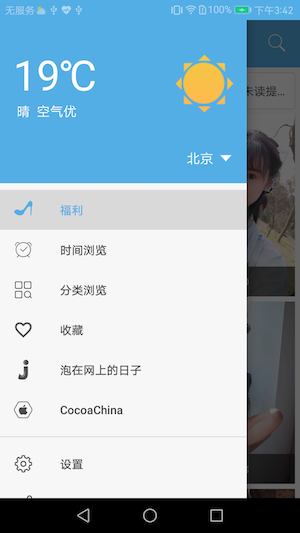
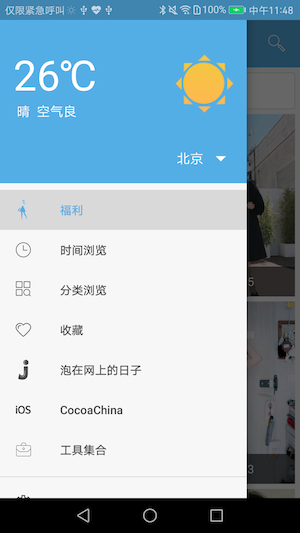
添加新的截图

diff --git a/app/src/main/java/com/maning/gankmm/ui/adapter/RecycleMoreAdapter.java b/app/src/main/java/com/maning/gankmm/ui/adapter/RecycleMoreAdapter.java
@@ -84,11 +84,11 @@ public class RecycleMoreAdapter extends RecyclerView.Adapter<RecyclerView.ViewHo
                 mDatasItem.add("微信精选");
             } else if (position == 1) {
                 mDatasItem.add("银行卡信息");
-                mDatasItem.add("黄金数据");
                 mDatasItem.add("货币汇率");
-                mDatasItem.add("白银数据");
-                mDatasItem.add("国内现货交易所贵金属");
-                mDatasItem.add("全球股指查询");
+//                mDatasItem.add("黄金数据");
+//                mDatasItem.add("白银数据");
+//                mDatasItem.add("国内现货交易所贵金属");
+//                mDatasItem.add("全球股指查询");
             } else if (position == 2) {
                 mDatasItem.add("周公解梦");
                 mDatasItem.add("婚姻匹配");
@@ -133,7 +133,7 @@ public class RecycleMoreAdapter extends RecyclerView.Adapter<RecyclerView.ViewHo
 
                     if (title.equals("银行卡信息")) {
                         context.startActivity(new Intent(context, BankCardActivity.class));
-                    } else if (title.equals("黄金数据")) {
+                    } else if (title.equals("货币汇率")) {
                         MySnackbar.makeSnackBarGreen(myViewHolder.recyclerViewItem,"功能暂未开通,敬请期待");
                     } else if (title.equals("货币汇率")) {
                         MySnackbar.makeSnackBarGreen(myViewHolder.recyclerViewItem,"功能暂未开通,敬请期待");

diff --git a/app/src/main/java/com/maning/gankmm/ui/adapter/RecycleMoreItemAdapter.java b/app/src/main/java/com/maning/gankmm/ui/adapter/RecycleMoreItemAdapter.java
@@ -74,12 +74,12 @@ public class RecycleMoreItemAdapter extends RecyclerView.Adapter<RecyclerView.Vi
 
             if (title.equals("银行卡信息")) {
                 myViewHolder.iv_more_item.setImageResource(R.drawable.gank_icon_tools_bank);
+            } else if (title.equals("白银数据")) {
+                myViewHolder.iv_more_item.setImageResource(R.drawable.gank_icon_tools_baiyin);
             } else if (title.equals("黄金数据")) {
                 myViewHolder.iv_more_item.setImageResource(R.drawable.gank_icon_tools_gold);
             } else if (title.equals("货币汇率")) {
                 myViewHolder.iv_more_item.setImageResource(R.drawable.gank_icon_tools_money);
-            } else if (title.equals("白银数据")) {
-                myViewHolder.iv_more_item.setImageResource(R.drawable.gank_icon_tools_baiyin);
             } else if (title.equals("国内现货交易所贵金属")) {
                 myViewHolder.iv_more_item.setImageResource(R.drawable.gank_icon_tools_guijinshu);
             } else if (title.equals("全球股指查询")) {

diff --git a/app/src/main/java/com/maning/gankmm/ui/activity/MoreActivity.java b/app/src/main/java/com/maning/gankmm/ui/activity/MoreActivity.java
@@ -48,9 +48,9 @@ public class MoreActivity extends BaseActivity {
     private void initMyToolBar() {
         int currentSkinType = SkinManager.getCurrentSkinType(this);
         if (SkinManager.THEME_DAY == currentSkinType) {
-            initToolBar(toolbar, "更多功能", R.drawable.gank_ic_back_white);
+            initToolBar(toolbar, "工具合集", R.drawable.gank_ic_back_white);
         } else {
-            initToolBar(toolbar, "更多功能", R.drawable.gank_ic_back_night);
+            initToolBar(toolbar, "工具合集", R.drawable.gank_ic_back_night);
         }
     }
 

diff --git a/README.md b/README.md
@@ -55,10 +55,16 @@
 ![](https://github.com/maning0303/GankMM/raw/master/screenshots/gank_006.png)
 ![](https://github.com/maning0303/GankMM/raw/master/screenshots/gank_007.png)
 ![](https://github.com/maning0303/GankMM/raw/master/screenshots/gank_008.png)
+![](https://github.com/maning0303/GankMM/raw/master/screenshots/gank_009.png)
 
 
 
 ## 更新日志：
+### V1.6.2(还没有发布):
+    1.使用vector替换图片,APK更小
+    2.首页添加工具合集
+    3.修复部分Bug
+
 ### V1.6.1:
     1.分类浏览添加图片展示
     2.升级数据库添加图片字段
@@ -176,6 +182,9 @@
 ###### 收藏按钮 [ThumbUp](https://github.com/ldoublem/ThumbUp)
 ###### 模糊控件 [Blurry](https://github.com/wasabeef/Blurry)
 ###### 网络请求监控 [chuck](https://github.com/jgilfelt/chuck)
+###### 表格控件 [scrollablepanel](https://github.com/Kelin-Hong/ScrollablePanel)
+###### 可以展开的文字 [expandableTextView](https://github.com/Manabu-GT/ExpandableTextView)
+###### 自定义日历控件 [MNCalendar](https://github.com/maning0303/MNCalendar)
 
 
 
